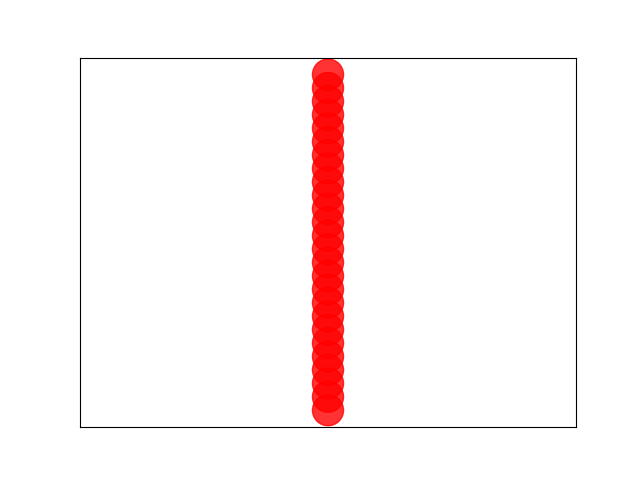
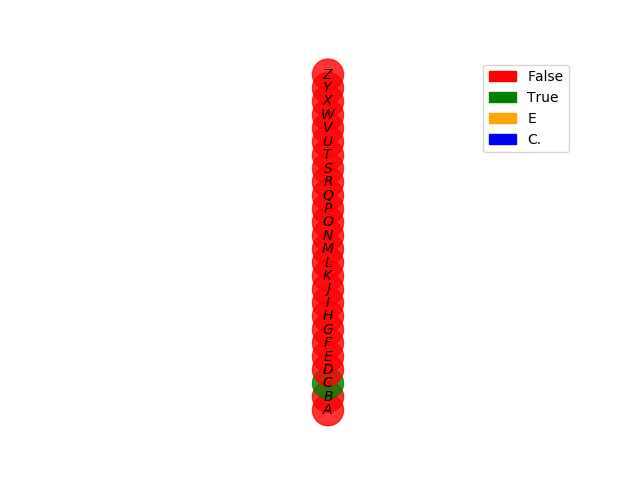
Done with bi-implications

Changed region(s): [[0.4688, 0.1562, 0.5625, 0.875], [0.75, 0.125, 0.9062, 0.3125]]

diff --git a/expert_system/process_lines.py b/expert_system/process_lines.py
@@ -222,6 +222,7 @@ def sub_brackets(statement):
 
 """
     Start processsing the rules to determine if a rule is true, false or undertermined.
+    This function only works out 
 """
 def work_out_rules():
     global implications
@@ -252,13 +253,53 @@ def work_out_rules():
                 print("\timplications:", implicators[x])
 
                 # continue
+            # Propegate through the rules.
             value = propergate(implicators[x])
+
             if not is_compound(implicated[x][0]):
                 # facts[implicated[x][0]] = not(value) | facts[implicated[x][0]]
                 facts[implicated[x][0]] = value
             else:
                 # facts[implicated[x][0]] = 'undefined'
                 imp_prop(implicated[x][0], value)
+
+
+"""
+    This function works on the bi-implication.
+"""
+def work_out_bi():
+    global bi_implications
+    global facts
+
+    if not bi_implications:
+        print("There are no if and only if's")
+        return
+    implicators = list(bi_implications.keys())
+    implicated = list(bi_implications.values())
+
+    for x in range(len(implicators)):
+        if not is_compound(implicators[x]):
+            key = facts[implicators[x]]
+            if not is_compound(implicated[x][0]):
+                facts[implicated[x][0]] = key
+            else:
+                facts[implicated[x][0]] = 'undetermined'
+        else:
+            if '(' in  implicators[x]:
+                print('statement has a bracket')
+                sub_brackets(implicators[x])
+                implicators[x] = re.sub(r" ?\([^)]+\)", "@", implicators[x])
+                print("\timplications:", implicators[x])
+
+                value = propergate(implicated[x])
+                if not is_compound(implicated[x][0]):
+                    facts[implicated[x][0]] = value
+                else:
+                    imp_prop(implicated[x][[0]], value)
+
+               
+    print(implicators)
+    print(implicated)
 
 
 def answer_q():

diff --git a/expert_system/algo.py b/expert_system/algo.py
@@ -15,7 +15,7 @@
 
 import string
 from read_file import readfile
-from process_lines import process_lines, set_initial_facts, process_rules, work_out_rules, answer_q
+from process_lines import process_lines, set_initial_facts, process_rules, work_out_rules, answer_q, work_out_bi
 from values import rules, queries, inital_facts, facts, implications, bi_implications
 import networkx as nx
 import matplotlib.pyplot as plt
@@ -35,16 +35,21 @@ process_lines(file_text)
 set_initial_facts()
 # print(facts)
 process_rules(rules)
-print("implications", implications)
-print("bi_implications", bi_implications)
+# print("implications", implications)
+# print("bi_implications", bi_implications)
 
 # workout the  rules.
 work_out_rules()
-print("Facts", facts)
+# print("Facts", facts)
 
-print("Workout the values again")
+
+# print("Workout the values again")
 work_out_rules()
-print('\n\nFacts', facts)
+# print('\n\nFacts', facts)
+
+# workout bi_implication.
+work_out_bi()
+
 
 G=nx.Graph()
 plt.figure(num='Expert System')
@@ -119,7 +124,6 @@ patch_facts = patch_facts.replace("=",'')
 patch_facts = patch_facts.replace('# Initial statements', '')
 patch_facts = patch_facts.replace(' ', '')
 
-plt.savefig("graph.png")
 red_patch = mpatches.Patch(color='red', label='False')
 grn_patch = mpatches.Patch(color='green', label='True ')
 qry_patch = mpatches.Patch(color='orange', Label=patch_query)
@@ -127,4 +131,6 @@ ans_patch = mpatches.Patch(color='blue', Label=patch_facts)
 plt.legend(handles=[red_patch, grn_patch, qry_patch, ans_patch])
 nx.draw_networkx_labels(G,pos,labels,font_size=10)
 plt.axis('off')
+
+plt.savefig("graph.png")
 plt.show()
